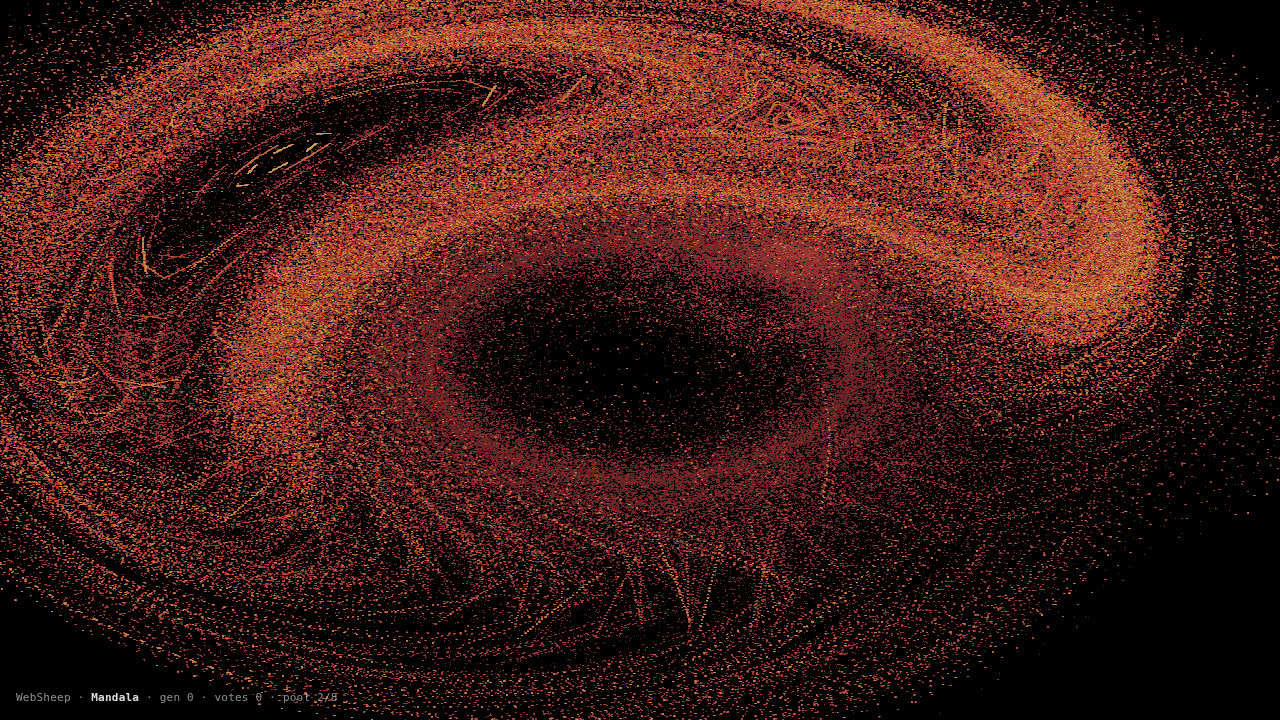
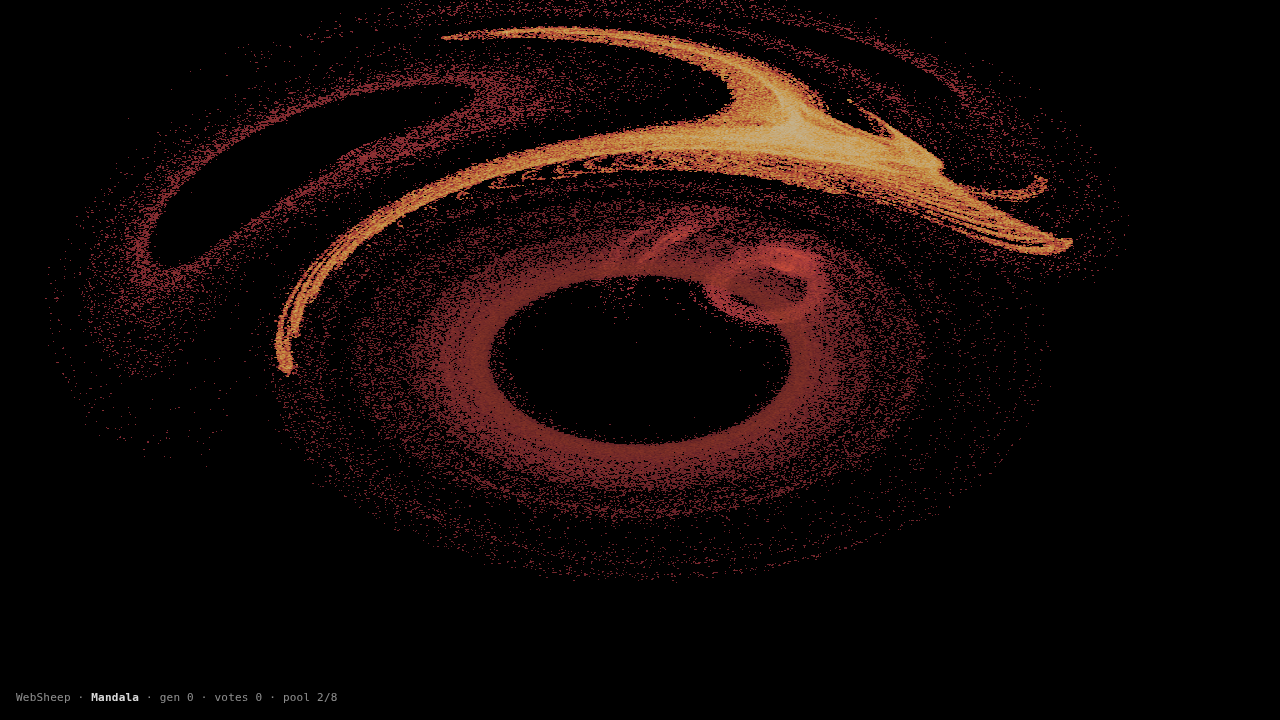
Phase D: burn-in + 5 new variations — much less blobby
A. Add burn-in loop in accumulator shader
- Each vertex now pre-iterates u_pre_iter (8) times before visible K_ITER (4)
- Visible samples emerge from the IFS attractor, not random scatter
- Color reset after burn-in so visible iterations start clean
- The PRE_ITER uniform was already set in JS but the shader wasn't using it

D. Add 5 new variations (Draves standard set)
- ring (concentric warped rings)
- fan (radial streaks in segments)
- popcorn (stippled texture)
- loonie (crescent/moon shapes)
- waves (slight sinusoidal wobble)
- New IDs: 14-18, registered in both shader and JS VARIATION_IDS

Visible impact (verified via Playwright):
- Mandala: abstract radial → comet + concentric rings
- Handkerchief: blurry → satellite/lens cone with field lines
- Heart: heart-blob → floating crystal/feather fractals
- Fisheye: blue circle → nested ellipse + bright focal point
- All 8 starters now show distinct fractal structure
- Mutations produce interesting variants, not just perturbed parents

Performance cost: ~3x more IFS work per vertex. Headless 7 FPS → 4 FPS.
Real browser at 60 FPS will likely hold 30-40+ FPS. Acceptable.

Skipped B (color blend 0.5 → 0.25) — re-checking the math showed that
would REDUCE color diversity, not increase it. The default 0.5 blend is
correct. If colors look washed out after this, the right fix is to drop
the blend entirely (color = xform.color) rather than reduce it.

diff --git a/index.html b/index.html
@@ -76,6 +76,7 @@
   precision highp int;
   #define MAX_XFORMS 6
   #define MAX_ITER 16
+  #define MAX_PRE_ITER 32
 
   uniform vec4 u_xform_a0[MAX_XFORMS]; // affine row 0: (a, b, c, _)
   uniform vec4 u_xform_a1[MAX_XFORMS]; // affine row 1: (d, e, f, _)
@@ -83,7 +84,7 @@
   uniform float u_var_params[4]; // generic variation parameters
   uniform int u_xform_count;
   uniform int u_k_iter;          // total iterations per vertex
-  uniform int u_pre_iter;        // skip first N (for burn-in)
+  uniform int u_pre_iter;        // burn-in iterations before visible
   uniform int u_output_index;    // which iteration to emit (0..u_k_iter-1)
   uniform float u_seed;          // global time-varying seed
   uniform float u_final_color;   // final color index
@@ -108,6 +109,12 @@
   vec2 v_blob(vec2 p)          { float r = length(p); float t = atan(p.y, p.x); return r * (1.0 + 0.5 * cos(2.0 * t)) * vec2(cos(t), sin(t)); }
   vec2 v_fisheye(vec2 p)       { float r = length(p); return r < 1e-6 ? vec2(0.0) : (2.0 * p) / (r + 1.0); }
   vec2 v_tangent(vec2 p)       { return vec2(sin(p.x) / cos(p.y), tan(p.y)); }
+  // Phase D additions
+  vec2 v_ring(vec2 p)          { float r2 = dot(p,p); return vec2(sin(r2) * p.x, cos(r2) * p.y); }
+  vec2 v_fan(vec2 p)           { float r = length(p); float t = atan(p.y, p.x); float hpi = 1.5707963; if (abs(t) > hpi) t = (t > 0.0 ? 3.14159265 : -3.14159265) - t; return vec2(r * (4.0 * t - cos(t)), r * 4.0 * sin(t)); }
+  vec2 v_popcorn(vec2 p)       { return p + vec2(0.05 * sin(3.0 * p.y), 0.05 * sin(3.0 * p.x)); }
+  vec2 v_loonie(vec2 p)        { float r2 = dot(p,p); float r = sqrt(r2); return r < 1e-6 ? vec2(0.0) : vec2(p.x * r2 / r, p.y * (p.x*p.x - p.y*p.y) / r); }
+  vec2 v_waves(vec2 p)         { return p + vec2(0.08 * sin(2.0 * p.y), 0.08 * sin(2.0 * p.x)); }
 
   vec2 apply_variation(vec2 p, int vid) {
     if (vid == 0)  return v_linear(p);
@@ -124,6 +131,11 @@
     if (vid == 11) return v_blob(p);
     if (vid == 12) return v_fisheye(p);
     if (vid == 13) return v_tangent(p);
+    if (vid == 14) return v_ring(p);
+    if (vid == 15) return v_fan(p);
+    if (vid == 16) return v_popcorn(p);
+    if (vid == 17) return v_loonie(p);
+    if (vid == 18) return v_waves(p);
     return p;
   }
 
@@ -133,7 +145,6 @@
 
     // Initial random point in [-1.5, 1.5]
     vec2 p = vec2(hash21(vec2(baseSeed, 1.0)), hash21(vec2(baseSeed, 2.0))) * 3.0 - 1.5;
-    vec3 color = vec3(u_final_color);
 
     // Pre-compute total weight for selection
     float totalW = 0.0;
@@ -141,6 +152,35 @@
       if (i >= u_xform_count) break;
       totalW += u_xform_meta[i].y;
     }
+
+    // ===== BURN-IN (Phase D fix): settle into the IFS attractor =====
+    // Without this, each vertex starts at random scatter and only iterates 4 times,
+    // so visible samples look like noisy blurs instead of the actual fractal pattern.
+    // We pre-iterate u_pre_iter times (discarding trajectory/color) so the visible
+    // iterations emit points that are already on the attractor.
+    for (int b = 0; b < MAX_PRE_ITER; b++) {
+      if (b >= u_pre_iter) break;
+
+      float rb = hash11(baseSeed + float(b) * 3.71 + 0.9);
+      rb *= totalW;
+      float cumb = 0.0;
+      int chosenB = 0;
+      for (int i = 0; i < MAX_XFORMS; i++) {
+        if (i >= u_xform_count) break;
+        cumb += u_xform_meta[i].y;
+        if (rb < cumb) { chosenB = i; break; }
+      }
+
+      vec4 a0b = u_xform_a0[chosenB];
+      vec4 a1b = u_xform_a1[chosenB];
+      vec2 qb = vec2(a0b.x * p.x + a0b.y * p.y + a0b.z,
+                     a1b.x * p.x + a1b.y * p.y + a1b.z);
+      int vidB = int(u_xform_meta[chosenB].z + 0.5);
+      p = apply_variation(qb, vidB);
+    }
+
+    // Reset color after burn-in so visible samples start fresh
+    vec3 color = vec3(u_final_color);
 
     vec2 traj[MAX_ITER];
     vec3 colTraj[MAX_ITER];
@@ -464,6 +504,8 @@
       linear: 0, sinusoidal: 1, spherical: 2, swirl: 3, horseshoe: 4,
       polar: 5, handkerchief: 6, heart: 7, disc: 8, julian: 9,
       juliaN: 10, blob: 11, fisheye: 12, tangent: 13,
+      // Phase D additions
+      ring: 14, fan: 15, popcorn: 16, loonie: 17, waves: 18,
     };
     function variationId(name) { return VARIATION_IDS[name] ?? 0; }
 